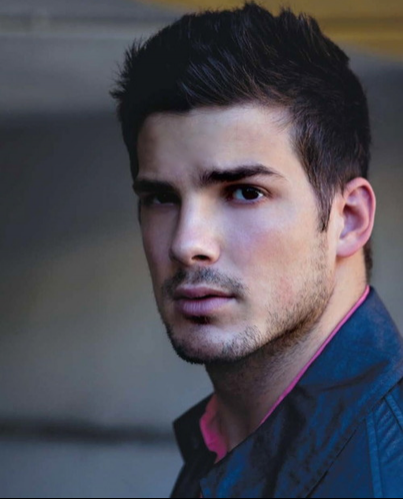
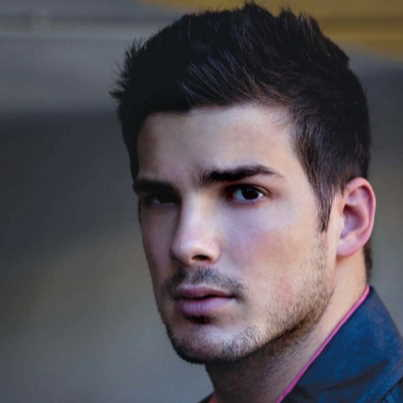
revise the dimension of profile pic

diff --git a/frontend/src/pages/04a-PaySummary.tsx b/frontend/src/pages/04a-PaySummary.tsx
@@ -414,7 +414,7 @@ export default function PaySummary() {
             ></Column>
             <Column
               field="nopay_leave"
-              header="-No Pay"
+              header="-Deduction"
               body={noPayLeaveBodyTemplate}
               editor={(options) => priceEditor(options)}
               style={{ width: "10%" }}
